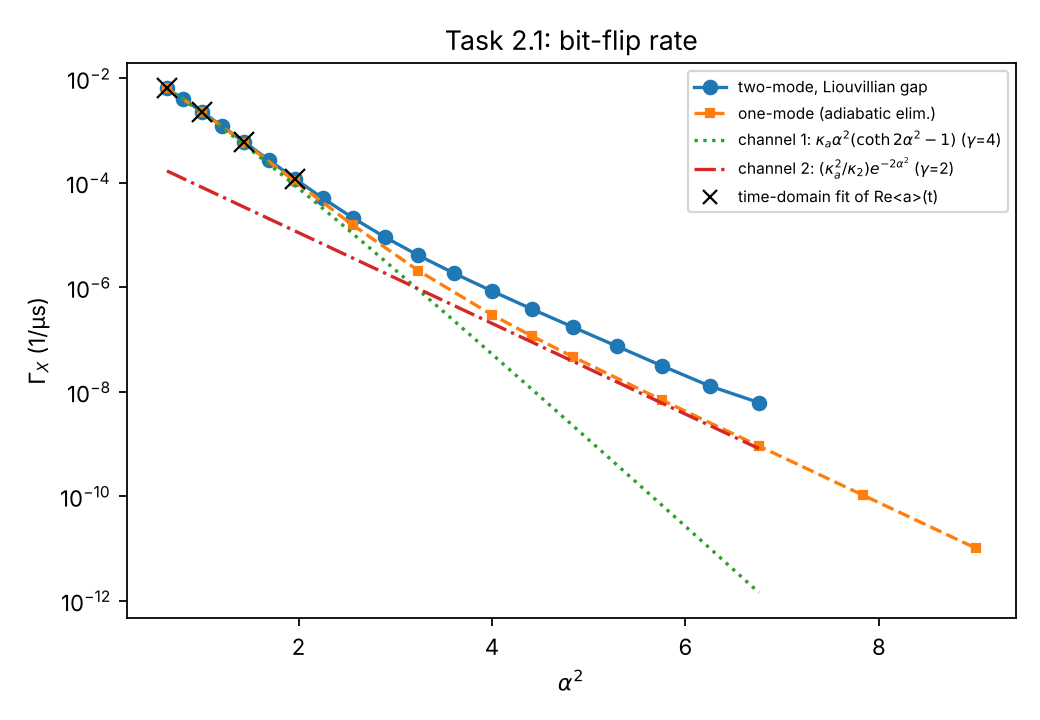
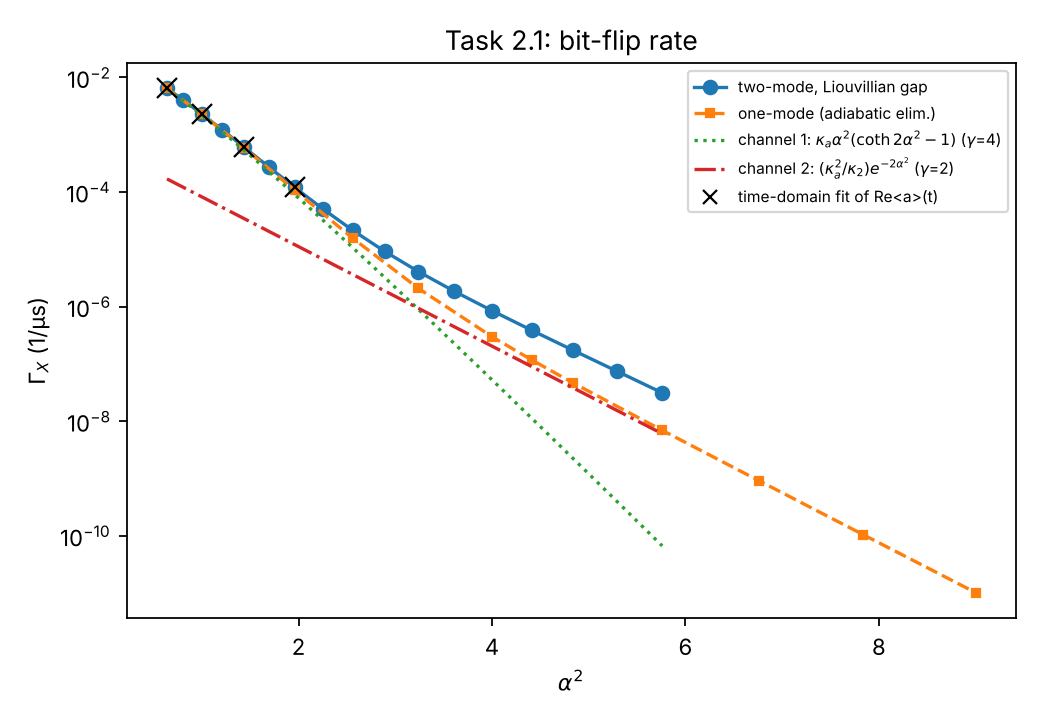
summarize: exclude unconverged alpha >= 2.5 from Gamma_X fits/figure, positive gamma
Claude-Session: https://claude.ai/code/session_017wfmfWoBFh3pbnZBP8Jes5

diff --git a/research/s2/summarize.py b/research/s2/summarize.py
@@ -45,6 +45,9 @@ def best_by_alpha(rows, key):
     return res
 
 
+ALPHA_CONVERGED = 2.4
+
+
 def gamma_x(md):
     base = [d for d in load("gx_*.json") if d["eps_z_over_g2"] == 0 and d["n_th"] == 0
             and d["kappa_a"] == KAPPA_A and abs(d["kappa_b"] / (2 * np.pi) - 2.6) < 1e-9]
@@ -52,6 +55,8 @@ def gamma_x(md):
     one = best_by_alpha([d for d in base if d["model"] == "one"], "gamma_x")
     if not two:
         return
+    allrows = two
+    two = {k: v for k, v in two.items() if k <= ALPHA_CONVERGED}   # alpha >= 2.5: truncations disagree
     al = np.array(list(two))
     gx = np.array([v[0] for v in two.values()])
     fig, ax = plt.subplots(figsize=(6.5, 4.5))
@@ -75,14 +80,15 @@ def gamma_x(md):
     F.mkdir(parents=True, exist_ok=True)
     fig.tight_layout(); fig.savefig(F / "gamma_x.png", dpi=160); plt.close(fig)
     m = (al >= 1.0)
-    slope_all = np.polyfit(al[m]**2, np.log(gx[m]), 1)[0]
-    loc = np.gradient(np.log(gx), al**2)
+    slope_all = -np.polyfit(al[m]**2, np.log(gx[m]), 1)[0]   # Gamma_X ~ e^{-gamma alpha^2}
+    loc = -np.gradient(np.log(gx), al**2)
     md.append("## Task 2.1 Γ_X (two-mode Liouvillian gap)\n")
-    md.append(f"Log-linear fit for α ≥ 1.0: γ = {slope_all:.2f}. Local slope d lnΓ_X/dα² runs from "
+    md.append(f"Log-linear fit for α ≥ 1.0: γ = {slope_all:.2f}. Local γ = −d lnΓ_X/dα² runs from "
               f"{loc[0]:.2f} (α = {al[0]}) to {loc[-1]:.2f} (α = {al[-1]}).\n")
     md.append("| α | Γ_X (1/µs) | T_X | truncation spread | Na×Nb | ch1 | ch2 |\n|---|---|---|---|---|---|---|")
-    for a_, (g, s, r) in two.items():
-        md.append(f"| {a_} | {g:.4e} | {1/g:.3g} µs | {s:.1e} | {r['na']}×{r['nb']} | {r['ch1']:.2e} | {r['ch2']:.2e} |")
+    for a_, (g, s, r) in allrows.items():
+        flag = "" if a_ <= ALPHA_CONVERGED else " (not converged, excluded from fits)"
+        md.append(f"| {a_} | {g:.4e} | {1/g:.3g} µs | {s:.1e}{flag} | {r['na']}×{r['nb']} | {r['ch1']:.2e} | {r['ch2']:.2e} |")
     md.append("")
     tds = load("gxt_*.json")
     if tds:

diff --git a/results/s2/SUMMARY.md b/results/s2/SUMMARY.md
@@ -2,7 +2,7 @@
 
 ## Task 2.1 Γ_X (two-mode Liouvillian gap)
 
-Log-linear fit for α ≥ 1.0: γ = -2.23. Local slope d lnΓ_X/dα² runs from -2.78 (α = 0.8) to -1.44 (α = 2.6).
+Log-linear fit for α ≥ 1.0: γ = 2.36. Local γ = −d lnΓ_X/dα² runs from 2.78 (α = 0.8) to 1.86 (α = 2.4).
 
 | α | Γ_X (1/µs) | T_X | truncation spread | Na×Nb | ch1 | ch2 |
 |---|---|---|---|---|---|---|
@@ -23,8 +23,8 @@ Log-linear fit for α ≥ 1.0: γ = -2.23. Local slope d lnΓ_X/dα² runs from 
 | 2.2 | 1.7180e-07 | 5.82e+06 µs | 1.0e-02 | 30×10 | 2.21e-09 | 3.79e-08 |
 | 2.3 | 7.4552e-08 | 1.34e+07 µs | 1.2e-02 | 30×10 | 3.99e-10 | 1.54e-08 |
 | 2.4 | 3.1153e-08 | 3.21e+07 µs | 1.5e-02 | 32×10 | 6.64e-11 | 6.02e-09 |
-| 2.5 | 1.2897e-08 | 7.75e+07 µs | 1.3e-02 | 32×10 | 1.01e-11 | 2.26e-09 |
-| 2.6 | 6.1867e-09 | 1.62e+08 µs | 1.9e-01 | 32×10 | 1.43e-12 | 8.15e-10 |
+| 2.5 | 1.2897e-08 | 7.75e+07 µs | 1.3e-02 (not converged, excluded from fits) | 32×10 | 1.01e-11 | 2.26e-09 |
+| 2.6 | 6.1867e-09 | 1.62e+08 µs | 1.9e-01 (not converged, excluded from fits) | 32×10 | 1.43e-12 | 8.15e-10 |
 
 Time-domain cross-checks (Re⟨a⟩ fit vs eigen):
 
@@ -383,6 +383,15 @@ Linear fit Γ_Z = s·α² + c: s = 0.11584 /µs vs 2κ_a = 0.11687 (0.9912×).
 | 1.8 | 1.0 | 30×8 | svdbang | 0.0625 | 0.658 | 0.6205 | 1.484e-03 | 443.4 | 0.25 |
 | 1.8 | 1.0 | 30×8 | svdbang | 0.25 | 2.547 | 2.406 | 7.147e-03 | 356.4 | 0.50 |
 | 1.8 | 1.0 | 30×8 | svdbang | 1.0 | 8.903 | 8.467 | 4.398e-02 | 202.4 | 1.00 |
+| 2.1 | 2.0 | 30×8 | square | 0.49999999999999994 | 1.905 | 1.855 | 9.048e-04 | 2106 | 0.50 |
+| 2.1 | 2.0 | 30×8 | square | 1.1250000000000002 | 4.258 | 4.146 | 2.990e-03 | 1424 | 0.75 |
+| 2.1 | 2.0 | 30×8 | square | 1.9999999999999998 | 7.469 | 7.275 | 8.104e-03 | 921.6 | 1.00 |
+| 2.1 | 2.0 | 30×8 | res | 0.24898557318080353 | 3.739 | 3.57 | 1.400e-03 | 2671 | 0.50 |
+| 2.1 | 2.0 | 30×8 | res | 0.560217539656808 | 8.178 | 7.818 | 4.381e-03 | 1867 | 0.75 |
+| 2.1 | 2.0 | 30×8 | res | 0.9959422927232141 | 13.94 | 13.35 | 1.091e-02 | 1278 | 1.00 |
+| 2.1 | 2.0 | 30×8 | bang | 0.49999999999999994 | 5.991 | 5.721 | 2.691e-03 | 2226 | 0.50 |
+| 2.1 | 2.0 | 30×8 | bang | 1.1250000000000002 | 12.84 | 12.29 | 9.242e-03 | 1390 | 0.75 |
+| 2.1 | 2.0 | 30×8 | bang | 1.9999999999999998 | 21.23 | 20.37 | 2.425e-02 | 875.4 | 1.00 |
 | 2.1 | 0.25 | 32×8 | square | 0.015625 | 0.07668 | 0.06592 | 2.309e-05 | 3322 | 0.25 |
 | 2.1 | 0.25 | 32×8 | square | 0.0625 | 0.3061 | 0.2631 | 1.147e-04 | 2668 | 0.50 |
 | 2.1 | 0.25 | 32×8 | square | 0.25 | 1.213 | 1.043 | 8.521e-04 | 1424 | 1.00 |
@@ -731,6 +740,12 @@ Values < 1 beat the square pulse. Also SNR gain at the same peak amplitude and w
 | 2.1 | 1.0 | 32×8 | 1e-09 | 0.25 | svdbang | 0.901 | 2.78 | 2.06e-04 |
 | 2.1 | 1.0 | 32×8 | 1e-09 | 0.5 | svdbang | 0.974 | 2.73 | 1.18e-03 |
 | 2.1 | 1.0 | 32×8 | 1e-09 | 1.0 | svdbang | 1.095 | 2.55 | 1.07e-02 |
+| 2.1 | 2.0 | 30×8 | 1e-09 | 0.5 | res | 0.788 | 1.96 | 1.40e-03 |
+| 2.1 | 2.0 | 30×8 | 1e-09 | 0.75 | res | 0.763 | 1.92 | 4.38e-03 |
+| 2.1 | 2.0 | 30×8 | 1e-09 | 1.0 | res | 0.721 | 1.87 | 1.09e-02 |
+| 2.1 | 2.0 | 30×8 | 1e-09 | 0.5 | bang | 0.946 | 3.14 | 2.69e-03 |
+| 2.1 | 2.0 | 30×8 | 1e-09 | 0.75 | bang | 1.025 | 3.02 | 9.24e-03 |
+| 2.1 | 2.0 | 30×8 | 1e-09 | 1.0 | bang | 1.053 | 2.84 | 2.43e-02 |
 | 2.4 | 0.25 | 36×8 | 1e-09 | 0.25 | cos2 | 0.909 | 0.61 | 7.95e-07 |
 | 2.4 | 0.25 | 36×8 | 1e-09 | 0.5 | cos2 | 0.788 | 0.61 | 3.62e-06 |
 | 2.4 | 0.25 | 36×8 | 1e-09 | 1.0 | cos2 | 0.547 | 0.61 | 2.26e-05 |
@@ -790,13 +805,35 @@ Values < 1 beat the square pulse. Also SNR gain at the same peak amplitude and w
 
 | α | Na×Nb | T | peak/g₂ | init | μ scale | SNR/SNR_sq | P/P_sq | (SNR/P) vs square |
 |---|---|---|---|---|---|---|---|---|
+| 1.4 | 14×4 | 0.3 | 0.5 | bang | 1.0 | 0.67 | 0.49 | 1.35 |
 | 1.4 | 20×6 | 0.5 | 0.5 | bang | 1.0 | 0.89 | 0.58 | 1.53 |
+| 1.4 | 22×8 | 1.0 | 0.5 | bang | 1.0 | 1.13 | 0.71 | 1.59 |
 | 2.1 | 26×6 | 0.5 | 1.0 | bang | 1.0 | 1.42 | 0.89 | 1.59 |
+| 2.1 | 30×8 | 0.5 | 0.5 | bang | 1.0 | 1.51 | 1.20 | 1.26 |
+| 2.1 | 30×8 | 0.5 | 1.0 | bang | 1.0 | 1.40 | 0.90 | 1.56 |
 
 ## 2.4a circuit Hamiltonian vs RWA (150 ns, 5 ns averaged, from |α=1⟩|0⟩)
 
 | Na×Nb | pump detuning (MHz) | max Δn_a (avg) | max Δn_b (avg) | memory freq. shift (MHz) |
 |---|---|---|---|---|
+| 10×4 | -40.0 | 0.428 | 0.139 | -0.978 |
+| 10×4 | -30.0 | 0.429 | 0.138 | -1.065 |
+| 10×4 | -27.0 | 0.334 | 0.094 | -1.133 |
+| 10×4 | -26.0 | 0.253 | 0.069 | -1.126 |
+| 10×4 | -25.0 | 0.168 | 0.069 | -1.088 |
+| 10×4 | -24.0 | 0.103 | 0.069 | -1.016 |
+| 8×3 | -23.0 | 0.422 | 0.137 | -0.889 |
+| 10×4 | -23.0 | 0.079 | 0.069 | -0.921 |
+| 12×5 | -23.0 | 0.062 | 0.069 | -0.993 |
+| 14×6 | -23.0 | 0.069 | 0.069 | -0.998 |
+| 10×4 | -22.0 | 0.104 | 0.069 | -0.824 |
+| 10×4 | -21.0 | 0.170 | 0.069 | -0.752 |
+| 10×4 | -20.0 | 0.258 | 0.069 | -0.714 |
+| 10×4 | -19.0 | 0.342 | 0.099 | -0.710 |
+| 10×4 | -18.0 | 0.401 | 0.126 | -0.730 |
+| 10×4 | -15.0 | 0.410 | 0.130 | -0.820 |
+| 10×4 | -10.0 | 0.428 | 0.138 | -0.862 |
+| 10×4 | -5.0 | 0.417 | 0.133 | -0.887 |
 | 10×4 | -4.0 | 0.422 | 0.135 | -0.890 |
 | 10×4 | -3.0 | 0.427 | 0.138 | -0.893 |
 | 10×4 | -2.5 | 0.429 | 0.139 | -0.894 |
@@ -811,4 +848,11 @@ Values < 1 beat the square pulse. Also SNR gain at the same peak amplitude and w
 | 10×4 | 0.5 | 0.425 | 0.136 | -0.901 |
 | 10×4 | 1.0 | 0.424 | 0.136 | -0.902 |
 | 10×4 | 2.0 | 0.423 | 0.136 | -0.905 |
+| 10×4 | 5.0 | 0.430 | 0.138 | -0.911 |
+| 10×4 | 10.0 | 0.428 | 0.137 | -0.918 |
+| 10×4 | 15.0 | 0.432 | 0.137 | -0.923 |
+| 10×4 | 20.0 | 0.435 | 0.137 | -0.929 |
+| 10×4 | 25.0 | 0.435 | 0.136 | -0.935 |
+| 10×4 | 30.0 | 0.436 | 0.136 | -0.939 |
+| 10×4 | 40.0 | 0.441 | 0.136 | -0.946 |
 
